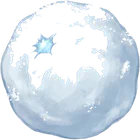
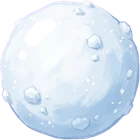
Story narration always plays (big start button when autoplay is blocked); real snowballs for the elves everywhere
Claude-Session: https://claude.ai/code/session_016HTeTL1HdhdTLdUQNXXCi3

diff --git a/prezentowy-nalot/story.js b/prezentowy-nalot/story.js
@@ -29,6 +29,8 @@
 .st-t{font-family:Lobster,cursive;color:#c0392b;font-size:clamp(26px,3.6vw,44px);line-height:1.05;margin:.05em 0 .15em}
 .st-x{font-size:clamp(15px,1.7vw,21px);line-height:1.35;font-weight:600}.st-x span{opacity:0;transition:opacity .35s}.st-x span.on{opacity:1}
 .st-row{display:flex;justify-content:space-between;align-items:center;margin-top:10px;gap:10px}.st-who{font-size:13px;opacity:.6}
+.st-play{position:absolute;left:50%;top:38%;transform:translate(-50%,-50%);width:150px;height:150px;border-radius:50%;border:5px solid #fff3d0;background:rgba(192,57,43,.92);color:#fff;font-size:64px;line-height:1;cursor:pointer;box-shadow:0 10px 40px rgba(0,0,0,.5);animation:stPulse 1.6s ease-in-out infinite;display:flex;flex-direction:column;align-items:center;justify-content:center;padding-left:8px}
+.st-play small{font-size:13px;font-weight:700;margin-top:4px;padding-right:8px}@keyframes stPulse{50%{transform:translate(-50%,-50%) scale(1.07)}}
 .st-btn{font:inherit;font-weight:800;font-size:18px;border:0;border-radius:999px;padding:9px 22px;cursor:pointer;background:#c0392b;color:#fff;box-shadow:0 4px 0 #8a2418}`;
   const st=document.createElement('style'); st.textContent=css; document.head.appendChild(st);
   // Kaka's talking portrait (mouth shapes and closed eyes are the ones made for the platformer story card)
@@ -41,13 +43,15 @@
       <div class="st-card"><div class="st-face"><canvas width="256" height="256"></canvas></div><div class="st-txt"><div class="st-ch">Rozdział ${ROMAN[n]}</div><div class="st-t">${C.t}</div>
       <div class="st-x">${C.x.split(/(?<=[.!?…])\s+/).map(s=>`<span>${s} </span>`).join('')}</div><div class="st-row"><span class="st-who">Opowiada Kaka</span><button class="st-btn">Dalej ▶</button></div></div></div>`;
     document.body.appendChild(ov); requestAnimationFrame(()=>ov.classList.add('on'));
-    const spans=[...ov.querySelectorAll('.st-x span')], a=muted?null:new Audio(base+'audio/story/ch'+n+'.mp3'); if(a){ a.volume=.95; a.play().catch(()=>{ const b=document.createElement('button'); b.className='st-btn'; b.style.background='#2e7d4f'; b.style.boxShadow='0 4px 0 #1d5233'; b.textContent='🔊 Posłuchaj'; b.onclick=()=>{ a.play().catch(()=>{}); b.remove(); }; ov.querySelector('.st-row').insertBefore(b,ov.querySelector('.st-btn')); }); }
-    const t0=performance.now(), cues=F.L['ch'+n]||[], dur=()=>a&&a.duration&&isFinite(a.duration)?a.duration:spans.length*3.2;
+    const spans=[...ov.querySelectorAll('.st-x span')], a=muted?null:new Audio(base+'audio/story/ch'+n+'.mp3'); let waiting=false, wait0=0; const startRead=()=>{ if(!waiting) return; waiting=false; a.play().catch(()=>{}); const pr=ov.querySelector('.st-play'); if(pr) pr.remove(); };
+    // a fresh page load may not play sound until the player interacts: then the page waits behind a big start button and the text appears together with the voice
+    if(a){ a.volume=.95; a.play().catch(()=>{ waiting=true; wait0=performance.now(); const b=document.createElement('button'); b.className='st-play'; b.innerHTML='▶<small>Kaka czyta rozdział — kliknij</small>'; b.onclick=e=>{ e.stopPropagation(); startRead(); }; ov.appendChild(b); }); }
+    let t0=performance.now(); const cues=F.L['ch'+n]||[], dur=()=>a&&a.duration&&isFinite(a.duration)?a.duration:spans.length*3.2;
     const sn=ov.querySelector('.st-snow'), sg=sn.getContext('2d'), flakes=Array.from({length:90},()=>({x:Math.random(),y:Math.random(),r:1+Math.random()*2.4,s:.02+Math.random()*.05,d:Math.random()*6}));
     const fc=ov.querySelector('.st-face canvas').getContext('2d'); let raf, done=false;
-    function frame(){ if(done) return; const t=(performance.now()-t0)/1000, at=a&&!a.paused?a.currentTime:t;
+    function frame(){ if(done) return; const t=(performance.now()-t0)/1000, at=waiting?-1:a&&!a.paused?a.currentTime:a&&a.currentTime>0?a.duration:t;
       // sentences appear as they are read
-      spans.forEach((s,i)=>{ if(at>=i/spans.length*dur()*0.98) s.classList.add('on'); });
+      spans.forEach((s,i)=>{ if(waiting) s.classList.remove('on'); else if(at>=i/spans.length*dur()*0.98) s.classList.add('on'); });
       // snow
       if(sn.width!==sn.clientWidth){ sn.width=sn.clientWidth; sn.height=sn.clientHeight; } sg.clearRect(0,0,sn.width,sn.height); sg.fillStyle='rgba(255,255,255,.85)';
       flakes.forEach(f=>{ const y=((f.y+t*f.s)%1)*sn.height, x=((f.x+Math.sin(t*.7+f.d)*.01)%1)*sn.width; sg.beginPath(); sg.arc(x,y,f.r,0,6.29); sg.fill(); });
@@ -58,7 +62,7 @@
       raf=requestAnimationFrame(frame); }
     frame();
     const close=()=>{ if(done) return; done=true; cancelAnimationFrame(raf); if(a){ a.pause(); } removeEventListener('keydown',key,true); ov.classList.remove('on'); setTimeout(()=>ov.remove(),500); then&&then(); };
-    const key=e=>{ if(e.code==='Enter'||e.code==='Space'){ e.preventDefault(); e.stopPropagation(); if(performance.now()-t0>400) close(); } };
+    const key=e=>{ if(e.code==='Enter'||e.code==='Space'){ e.preventDefault(); e.stopPropagation(); if(waiting){ startRead(); return; } if(performance.now()-t0>400) close(); } };
     ov.querySelector('.st-btn').onclick=close; addEventListener('keydown',key,true); }
   window.STORY={show};
   // ?story=N shows chapter N on its own (to preview a page)

diff --git a/prezentowy-nalot/magazyn/index.html b/prezentowy-nalot/magazyn/index.html
@@ -53,7 +53,7 @@ const stage=document.getElementById('stage'), cv=document.getElementById('cv'), 
 function fit(){ const s=Math.min(innerWidth/VW,innerHeight/VH); stage.style.transform=`translate(-50%,-50%) scale(${s})`; }
 addEventListener('resize',fit); fit();
 const TOUCH=matchMedia('(pointer:coarse)').matches;
-const IMG={}; ['kaczor','elf','cam','plane','box','key','gate','shelf'].forEach(n=>{ const i=new Image(); i.src='art/'+n+'.webp'; IMG[n]=i; });
+const IMG={}; ['kaczor','elf','cam','plane','box','key','gate','shelf','snowball'].forEach(n=>{ const i=new Image(); i.src='art/'+n+'.webp'; IMG[n]=i; });
 const ok=i=>i&&i.complete&&i.naturalWidth;
 // walking strips (Ludo.ai animations, 16 frames each)
 const STRIP={}; fetch('art/anim.json').then(r=>r.json()).then(j=>{ for(const k in j){ const i=new Image(); i.src='art/'+k+'.webp'; STRIP[k]={...j[k],img:i}; } }).catch(()=>{});
@@ -213,7 +213,7 @@ function draw(){ c.setTransform(1,0,0,1,0,0); c.fillStyle='#000'; c.fillRect(0,0
   const L=[]; BOXES.forEach(b=>L.push({y:b.y+20,f:()=>drawImg(IMG.box,b.x,b.y+26,62)}));
   GUARDS.forEach(g=>L.push({y:g.y,f:()=>{ if(!(g.mv?drawStrip('elf_walk',g.x,g.y+30,72,g.t*(g.st==='chase'?1.7:1),Math.cos(g.a)<0):false)) drawImg(IMG.elf,g.x,g.y+30,72,Math.cos(g.a)<0); const ic=g.st==='chase'?'!':g.st==='sus'||g.st==='inv'||g.st==='search'||g.sus>.05?'?':''; if(ic) txt(ic,g.x,g.y-58+Math.sin(t0*8)*3,ic==='!'?36:30,ic==='!'?'#ff5050':'#ffe27a','center');
     if(g.say){ c.globalAlpha=Math.min(1,g.say.ttl*3); c.font='800 18px "Baloo 2",sans-serif'; const w=c.measureText(g.say.t).width+20; c.fillStyle='rgba(255,255,255,.92)'; c.beginPath(); c.roundRect(g.x-w/2,g.y-112,w,30,10); c.fill(); c.beginPath(); c.moveTo(g.x-6,g.y-82); c.lineTo(g.x+6,g.y-82); c.lineTo(g.x,g.y-72); c.fill(); c.fillStyle='#5a1a2a'; c.textAlign='center'; c.textBaseline='middle'; c.fillText(g.say.t,g.x,g.y-97); c.globalAlpha=1; } }}));
-  balls.forEach(o=>L.push({y:o.y,f:()=>{ c.fillStyle='rgba(0,0,0,.2)'; c.beginPath(); c.ellipse(o.x,o.y+22,8,4,0,0,6.29); c.fill(); c.fillStyle='#fff'; c.beginPath(); c.arc(o.x,o.y,9,0,6.29); c.fill(); c.strokeStyle='#b8d4ee'; c.lineWidth=2; c.stroke(); }}));
+  balls.forEach(o=>L.push({y:o.y,f:()=>{ c.fillStyle='rgba(0,0,0,.2)'; c.beginPath(); c.ellipse(o.x,o.y+22,8,4,0,0,6.29); c.fill(); drawImg(IMG.snowball,o.x,o.y+11,22,false,(o.t||0)*6); }}));
   L.push({y:P.y+(P.hidden?40:0),f:()=>{ if(P.hidden){ drawImg(IMG.box,P.x,P.y+26,62); c.fillStyle='#fff'; c.beginPath(); c.arc(P.x-7,P.y-10,4,0,6.29); c.arc(P.x+7,P.y-10,4,0,6.29); c.fill(); c.fillStyle='#222'; c.beginPath(); c.arc(P.x-7+Math.sin(t0*2)*1.5,P.y-10,2,0,6.29); c.arc(P.x+7+Math.sin(t0*2)*1.5,P.y-10,2,0,6.29); c.fill(); return; }
     if(P.inv>0&&Math.floor(P.inv*10)%2) return; const moving=Math.hypot(P.vx,P.vy)>30; if(!(moving&&drawStrip('kz_walk',P.x,P.y+30,74,P.step/6*(K.F?1.5:1),P.face<0))) drawImg(IMG.kaczor,P.x,P.y+30,74,P.face<0); }});
   L.sort((a,b)=>a.y-b.y).forEach(o=>o.f());

diff --git a/prezentowy-nalot/wioska/index.html b/prezentowy-nalot/wioska/index.html
@@ -630,7 +630,7 @@ function update(dt){
       else { e.mode=null; patrol(e,dt); } }
     if(e.k==='inez'){ e.t+=dt; const near=Math.abs(P.x-e.x)<420&&Math.abs((P.y+P.h)-(surfAt(e.x,e.y)||0))<200;
       if(near){ e.dir=Math.sign(P.x-e.x)||-1; e.cool-=dt; e.kissT=Math.max(0,(e.kissT||0)-dt);
-        if(e.cool<=0){ e.cool=2.3; e.kissT=.5; kisses.push({x:e.x+e.dir*30,y:(surfAt(e.x,e.y)||0)-120,vx:e.dir*230,t:3,ph:Math.random()*6}); if(inezCool<=0){ play('inez_kiss'); inezCool=14; } } }
+        if(e.cool<=0){ e.cool=2.3; e.kissT=.5; kisses.push({x:e.x+e.dir*30,y:(surfAt(e.x,e.y)||0)-120,vx:e.dir*260,t:3,ph:Math.random()*6,snow:true}); sfx('throw',.3); } }
       else patrol(e,dt); }
     if(e.k==='inez'||e.k==='gay'){ const who=e.k==='gay'?'Gayzilla':'Inez';
       const ey=surfAt(e.x,e.y)||VH; e.y=ey;
@@ -900,7 +900,7 @@ function draw(){ c.setTransform(RES,0,0,RES,0,0); if(shake>0) c.translate((Math.
     else if(e.k==='inez'){ const fl=e.dir<0; if(!(e.kissT>0?drawAnim('inez_kiss',X,e.y+2,0,fl,1-e.kissT/.5):drawAnim('inez_walk',X,e.y+2,e.t,fl))){ const im=e.kissT>0?IMG.inez_kiss:(Math.floor(e.t*5)%2?IMG.inez_walk1:IMG.inez_walk2); drawImg(im,X,e.y+2,128*CHAR,fl); } }
     else if(e.k==='spring') drawSpring(X,e.y,e.sq||0);
     else if(e.k==='icicle') drawIcicle(X,e.y,e.st==='shake'?Math.sin(t0*60)*3:0); });
-  kisses.forEach(k=>drawImg(IMG.it_kiss,k.x-cam,k.y+14,30));
+  kisses.forEach(k=>k.snow?drawImg(IMG.it_snow,k.x-cam,k.y+12,26):drawImg(IMG.it_kiss,k.x-cam,k.y+14,30));
   snowballs.forEach(b=>drawImg(IMG.it_snow,b.x-cam,b.y+12,24));
   phones.forEach(f=>{ c.save(); c.translate(f.x-cam,f.y); c.rotate(f.rot); drawImg(IMG.it_phone,0,18,36); c.restore(); });
   flyers.forEach(f=>{ c.save(); c.translate(f.x-cam,f.y-70); c.rotate(f.rot); c.globalAlpha=Math.min(1,f.t); drawImg(IMG.inez_kiss,0,70,144*CHAR,f.dir>0); c.restore(); });

diff --git a/prezentowy-nalot/README.md b/prezentowy-nalot/README.md
@@ -110,7 +110,8 @@ The title screen gets "Różowy Pałac", "Wieża luster" and "Sala tronowa" butt
 - Title screen redrawn (Gemini) with the current cast: the family in the sleigh with Rudolf, Inez on her Pink Reindeer, the Pink Palace, and Santa with elves on a rooftop. Title-menu buttons follow the story order (tent and cottage added, Ranking last). Kaczor's sauna mouths redone over a larger, correctly placed area.
 - Gift balloons are painted (Gemini): a red balloon whose ribbon holds the booster, swaying as it drifts. Plain boosters have a soft golden glow instead of a pale disc. The title art is a new Gemini background (aurora, moon, Inez on her Pink Reindeer, the Pink Palace, snowy rooftops) with the game's own sleigh sprite composited in, so Kaczor, Kaka and Mikołaj look exactly as in the game.
 - Fixed: after the landing at Jugo's the game went to Maryańska's tent instead of the cottage (`endCut` ran two branches); the whole story order was then checked end to end with an automated run.
-- Story pages between chapters (`story.js`, shared by every page): eleven chapters, each a full-screen illustration that slowly drifts (game backgrounds plus two new Gemini scenes, the warehouse and the bobsled track; the sleigh flies across the night pages), falling snow, the chapter title and text, and Kaka reading it aloud (ElevenLabs, `audio/story/ch1-11.mp3`) with her blinking, lip-synced portrait (Rhubarb cues in `audio/story/lips.json`). Sentences appear as she reads them; when the browser blocks autoplay a "Posłuchaj" button starts the narration. `?story=N` previews a page.
+- Story pages between chapters (`story.js`, shared by every page): eleven chapters, each a full-screen illustration that slowly drifts (game backgrounds plus two new Gemini scenes, the warehouse and the bobsled track; the sleigh flies across the night pages), falling snow, the chapter title and text, and Kaka reading it aloud (ElevenLabs, `audio/story/ch1-11.mp3`) with her blinking, lip-synced portrait (Rhubarb cues in `audio/story/lips.json`). Sentences appear as she reads them; when the browser blocks autoplay (a fresh page load) the page waits behind a big play button and the text appears together with Kaka's voice. `?story=N` previews a page.
+- Snowballs: a new painted snowball (Gemini, keyed off magenta so the white is not cut away) for the elves in the shoot 'em up and the bobsled, used in the warehouse too; in the platformer the rebel elves now throw snowballs instead of Inez's kisses.
 - Direct links: `?papi` plays Papi's story about Inez in the cottage; `?play=1..4` starts a shoot 'em up level, `?boss=1..4` jumps to its boss (`?deer` still works); platformer `wioska/?level=1..3`, with `&boss` straight to the General of the Elves or Inez in the tower.
 - Performance (Macs): all pages cap drawing at ~60 fps (ProMotion displays no longer render twice as often), the main game starts at 1.5× resolution instead of 2× on Retina and steps down to 1× if frames run slow, and the star shield uses a canvas shadow instead of stacked CSS filters.
 
